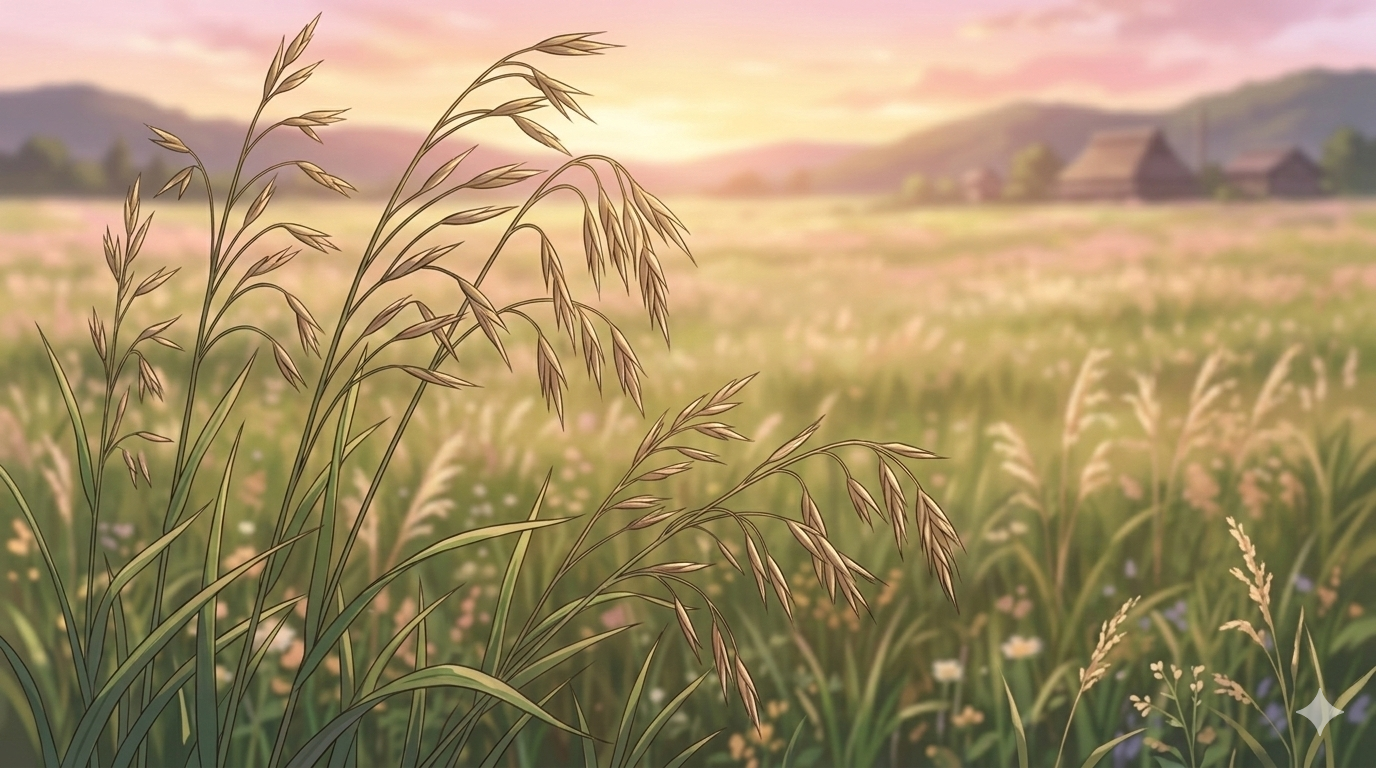
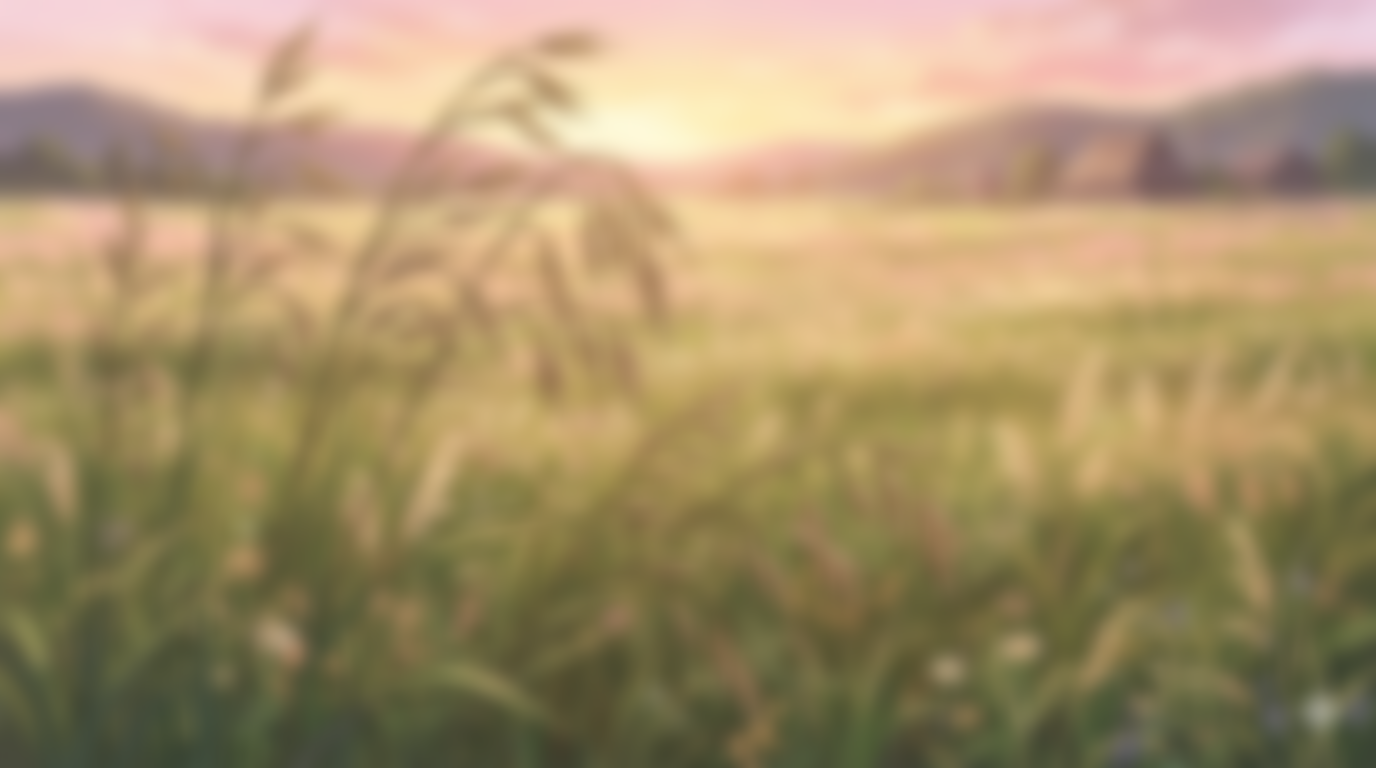
Background is updated

diff --git a/public/style.css b/public/style.css
@@ -10,7 +10,11 @@ html {
 body {
   font-family: "Benton Sans", "Helvetica Neue", helvetica, arial, sans-serif;
   margin: 50px;
-  background-color: lightgrey;
+  background-image: url("./bromus-background.png");
+  background-repeat: repeat-x;
+  background-attachment:fixed;
+  background-position: left top;
+  background-size: cover;
 }
 
 .ui.menu .header {
